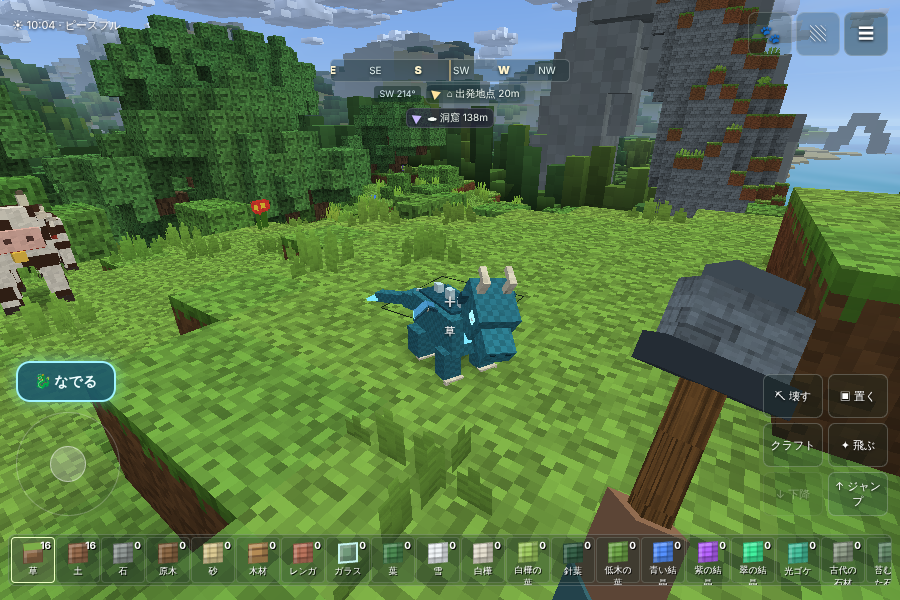
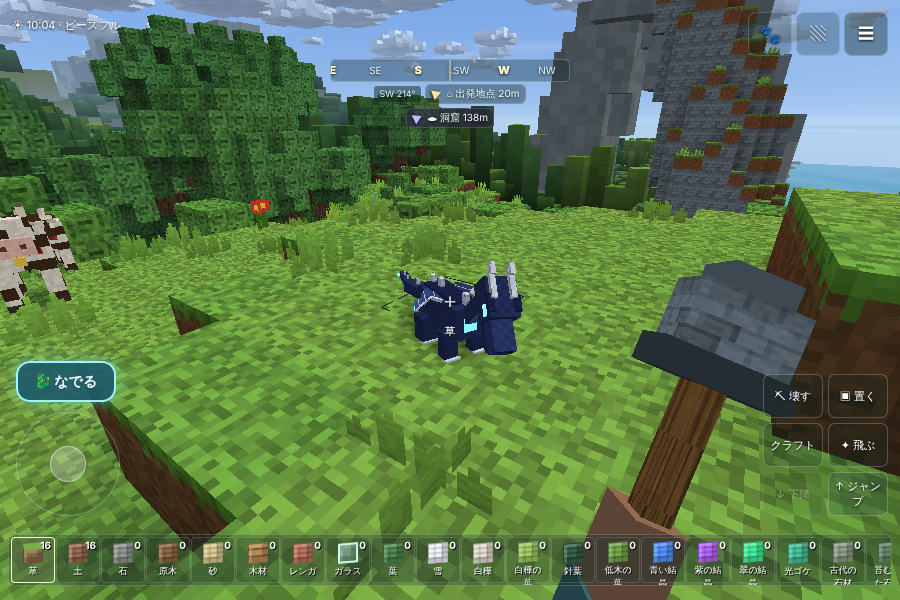
v18: ドラゴンの姿を「月影の竜」に（細長い首と尾・骨の通った大きな翼・背中のトゲ・藍色×白銀×水色の光）
エンダードラゴン風のシルエットを参考にしつつ、色・頭・光り方は独自デザイン。スクリーンショット更新。

Claude-Session: https://claude.ai/code/session_01Tw9m5tYocoLMiPM6YDs14C

diff --git a/index.html b/index.html
@@ -2000,29 +2000,31 @@ const LIFE_SPECIES=[
  bones:[['body','root',0,0,0]],
  parts:[['body',0,0,0,10,10,10,'#6f98ea','glow'],['body',0,.4,0,10.3,2.2,10.3,'#8f7ae8','glow'],['body',-2.2,5.4,5.05,1.8,2.4,.25,'#1d1640','flat',1],['body',-2.6,6.6,5.2,.7,.7,.15,'#ffffff','flat',1],
   ['body',0,3.2,5.05,2,.7,.25,'#1d1640','flat'],['body',-2.4,10,-1,2,3.2,2,'#c58cff','glow'],['body',2.2,10,1.4,1.6,2.4,1.6,'#7fe8ff','glow'],['body',.4,10,-2.6,1.2,1.8,1.2,'#b7a4ff','glow']]},
-// v18 the dragon partner and its nest egg (cat 'pet': never spawned, never in the egg book, never culled; see the DRAGON section).
-// One model for every age: lifePose scales the head, neck, wings and tail per growth stage. 'shd' carries the contact shadow (hidden in flight).
+// v18 the dragon partner (月影の竜: indigo scales, silver bones, ice-blue glow) and its nest egg (cat 'pet': never spawned, never in the egg book,
+// never culled; see the DRAGON section). One model for every age: lifePose scales the head, neck, wings and tail per growth stage.
+// 'shd' carries the contact shadow (hidden in flight). A slender body, a long neck and tail, spines along the back and big bony wings.
 {id:'dragon',name:'ドラゴン',group:'ドラゴン',cat:'pet',move:'dragon',rig:'dragon',sc:1,sp:1.5,run:4.6,h:1.2,r:.5,flee:0,herd:[1,1],hab:{},voice:'kyu',stride:1.3,
- bones:[['shd','root',0,0,0],['body','root',0,10,0],['neck','body',0,15,8,.55],['head','neck',0,25,9],['jaw','head',0,24,12],['tail','body',0,13,-8,-.12],['tip','tail',0,12.5,-19.5],
-  ['wl','body',-5,17,3],['l1','wl',-19,17,3],['fl','body',-4,9,6],['bl','body',-4,9,-5]],
- parts:[['shd',0,.5,-3,22,.1,36,[11,18,-3/18],'shadow'],
-  ['body',0,8,0,10,9,18,'#2d7a8c','scale'],['body',0,7.4,0,8,1,15,'#a8e0cf','flat'],['body',0,16.6,-1,7,1,15,'#1f5568','scale'],
-  ['body',0,17.4,5,1.4,2.2,2,'#cfeff5','flat'],['body',0,17.4,0,1.4,2.6,2,'#cfeff5','flat'],['body',0,17.4,-5,1.4,2.2,2,'#cfeff5','flat'],['body',0,11,9.05,4,4,.4,'#7fe8ff','glow'],
-  ['neck',0,15,9,5.4,11,5.4,'#2d7a8c','scale'],['neck',0,16,11.75,3.4,9,.4,'#a8e0cf','flat'],['neck',0,24,6.7,1.2,1.8,1.6,'#cfeff5','flat'],
-  ['head',0,24,11,7,6,8,'#2d7a8c','scale'],['head',0,24.4,17,5,3.4,4.4,'#2f8396','scale'],['head',-1.3,26.9,19.25,.8,.6,.2,'#123844','flat',1],
-  ['head',-3.55,27,13,.3,1.5,1.9,'#aef9ff','glow',1],['head',-3.62,27.6,13.4,.2,.5,.6,'#ffffff','flat',1],
-  ['head',-2.2,30,9.5,1.2,3,1.2,'#ede4c8','bone',1],['head',-2.2,32,8,1,1,2.4,'#ede4c8','bone',1],['head',-3.9,26,9,1.6,2.4,1,'#1f5568','fur',1],
-  ['jaw',0,22.8,15.5,4.6,1.4,6,'#2a6f80','scale'],['jaw',0,22.6,15.5,4,.3,5,'#a8e0cf','flat'],
-  ['tail',0,10.5,-14,6,5,12,'#2d7a8c','scale'],['tail',0,15.4,-14,1.2,1.6,2,'#cfeff5','flat'],
-  ['tip',0,11,-26,3.8,3.2,13,'#2d7a8c','scale'],['tip',0,11.6,-33.5,6.4,.8,4,'#7fe8ff','glow'],
-  ['wl',-12,16.6,3,14,1.4,2.4,'#24566a','bone',1],['wl',-12,16.3,-2.8,14,.5,9,'#3f86b8','flat',1],
-  ['l1',-26,16.7,3,14,1.1,2,'#24566a','bone',1],['l1',-26,16.4,-3.5,14,.5,10,'#4a95c8','flat',1],['l1',-33.3,16.45,-3,.6,.5,9,'#8ff4ff','glow',1],['l1',-19,16.2,4.4,1,1.6,1,'#ede4c8','bone',1],
-  ['fl',-4.4,0,6.5,3.4,9.4,3.4,'#2a6f80','scale',1],['fl',-4.4,0,8.4,3.6,1.1,1.2,'#ede4c8','bone',1],
-  ['bl',-4.6,0,-5,4,9.6,4.6,'#2a6f80','scale',1],['bl',-4.6,0,-2.9,4.2,1.1,1.2,'#ede4c8','bone',1]]},
+ bones:[['shd','root',0,0,0],['body','root',0,10,0],['neck','body',0,14,8,.75],['head','neck',0,30,9],['jaw','head',0,29,12],['tail','body',0,12,-8,-.1],['tip','tail',0,12,-26],
+  ['wl','body',-4,16,3],['l1','wl',-22,16.5,3],['fl','body',-3.5,9,5],['bl','body',-3.5,9,-5]],
+ parts:[['shd',0,.5,-8,18,.1,52,[9,26,-8/26],'shadow'],
+  ['body',0,8,0,8,8,18,'#24305e','scale'],['body',0,7.4,0,6,1,14,'#4a5c94','flat'],['body',0,15.6,-1,5.4,1,15,'#1a2248','scale'],
+  ['body',0,16,7,1.2,2.6,1.6,'#d6dde8','bone'],['body',0,16,-4,1.2,2.8,1.6,'#d6dde8','bone'],['body',0,16,-8,1.2,2.4,1.6,'#d6dde8','bone'],['body',0,10,9.05,3.4,3.4,.4,'#8ff4ff','glow'],
+  ['neck',0,14,9,4,16,4,'#24305e','scale'],['neck',0,15,11.2,2.6,14,.4,'#4a5c94','flat'],['neck',0,20,6.6,1,1.8,1.4,'#d6dde8','bone'],['neck',0,25,6.6,1,1.8,1.4,'#d6dde8','bone'],
+  ['head',0,29,11,5.6,4.6,7,'#24305e','scale'],['head',0,29.2,17,4,2.8,5.6,'#2b386c','scale'],['head',-1,31.4,19.85,.7,.5,.2,'#0c1026','flat',1],
+  ['head',-2.85,31.6,13,.3,1.1,2,'#9ff7ff','glow',1],['head',-2.4,33.4,12.2,1.2,.6,3,'#1a2248','scale',1],
+  ['head',-1.8,33.4,9,1,1,5,'#d6dde8','bone',1],['head',-1.8,34.2,6.6,.9,.9,2,'#d6dde8','bone',1],
+  ['jaw',0,27.8,16,3.6,1.2,6.4,'#1f2a55','scale'],['jaw',0,27.6,16,3,.3,5,'#4a5c94','flat'],
+  ['tail',0,10,-17,5,4,18,'#24305e','scale'],['tail',0,14,-12,1,2,1.6,'#d6dde8','bone'],['tail',0,14,-19,1,1.8,1.6,'#d6dde8','bone'],
+  ['tip',0,10.6,-34,2.8,2.6,16,'#24305e','scale'],['tip',0,13.2,-30,.8,1.4,1.4,'#d6dde8','bone'],['tip',0,13,-37,.8,1.2,1.4,'#d6dde8','bone'],['tip',0,11.3,-43,4.6,.6,3,'#8ff4ff','glow'],
+  ['wl',-13,15.6,3,18,1.4,2,'#d6dde8','bone',1],['wl',-13,15.4,-4,18,.4,12,'#2e3b70','flat',1],['wl',-14,15.5,-4,1,.5,12,'#c4ccd8','bone',1],
+  ['l1',-31,16.1,3,18,1.1,1.6,'#d6dde8','bone',1],['l1',-26.5,15.9,-5,9,.4,14,'#34427a','flat',1],['l1',-35.5,15.9,-3,9,.4,10,'#3d4d8a','flat',1],['l1',-28,16,-5,.9,.5,14,'#c4ccd8','bone',1],['l1',-35,16,-3,.9,.5,10,'#c4ccd8','bone',1],
+  ['l1',-26,15.9,-13,3,.4,2,'#34427a','flat',1],['l1',-38.5,15.9,-9,3,.4,2,'#3d4d8a','flat',1],['l1',-40.2,15.95,-3,.5,.4,9,'#8ff4ff','glow',1],['l1',-22,15.6,4.2,.9,1.6,.9,'#d6dde8','bone',1],
+  ['fl',-3.8,0,5.5,2.8,9.4,2.8,'#1f2a55','scale',1],['fl',-3.8,0,7.2,3,1,1,'#d6dde8','bone',1],
+  ['bl',-4,0,-5,3.4,9.6,3.8,'#1f2a55','scale',1],['bl',-4,0,-3.2,3.6,1,1,'#d6dde8','bone',1]]},
 {id:'dragonNest',name:'ドラゴンの卵',group:'ドラゴン',cat:'pet',move:'still',rig:'egg',sc:1,sp:0,run:0,h:.8,r:.4,flee:0,herd:[1,1],hab:{},
  bones:[['nest','root',0,0,0],['egg','root',0,1,0],['crk','egg',0,5,0]],
  parts:[['nest',0,.4,0,7,1,7,'#b8954f','fur'],['nest',0,0,-4,10,2.2,2,'#7a5a34','fur'],['nest',0,0,4,10,2.2,2,'#6b4c2a','fur'],['nest',-4,0,0,2,2.2,6,'#7a5a34','fur',1],
-  ['egg',0,1,0,5,2,5,'#2f8f9a','dots'],['egg',0,3,0,6,3.4,6,'#2f8f9a','dots'],['egg',0,6.4,0,5,2.4,5,'#3aa2ad','dots'],['egg',0,8.8,0,3.4,1.4,3.4,'#45b3bd','dots'],
+  ['egg',0,1,0,5,2,5,'#2b386c','dots'],['egg',0,3,0,6,3.4,6,'#2b386c','dots'],['egg',0,6.4,0,5,2.4,5,'#34437e','dots'],['egg',0,8.8,0,3.4,1.4,3.4,'#3e4f8f','dots'],
   ['egg',-1.5,4.6,3.02,1.4,1,.2,'#7fe8ff','glow'],['egg',1.6,6.8,2.52,1,.8,.2,'#7fe8ff','glow'],['egg',-3.02,3.6,-1,.2,1.2,1.2,'#7fe8ff','glow'],
   ['crk',0,5.2,3.05,3.6,.4,.2,'#c8fbff','glow'],['crk',1.2,5.6,3.06,.4,1.6,.2,'#c8fbff','glow'],['crk',-3.05,4.4,0,.2,.4,3,'#c8fbff','glow'],['crk',3.05,6,.5,.2,1.4,.4,'#c8fbff','glow'],['crk',0,8.3,-1.5,.4,.4,2.6,'#c8fbff','glow']]}];
 const LIFE_BY_ID={};LIFE_SPECIES.forEach((s,i)=>{s.i=i;LIFE_BY_ID[s.id]=s});
@@ -3183,7 +3185,7 @@ function lifePose(c){c.poseVersion++;const sp=c.sp,B=sp.B,R=c.R,O=c.O,S=c.S,nb=s
   case'dragon':{const k=c.stageK??1,hs=1.45-.45*k,ns=.8+.2*k,ws=.5+.5*k;bSC('head',hs,hs,hs);bSC('neck',ns,ns,ns);bSC('tail',ns,ns,ns);bSC('wl',ws,ws,ws);bSC('wr',ws,ws,ws);
    if(c.air){bSC('shd',0,0,0);const f=Math.sin(t*(5.2+2.5*(1-k)))*.7*(c.flap??1),g=.08;bRZ('wl',-f-g);bRZ('wr',f+g);bRZ('l1',-f*.55);bRZ('r1',f*.55);
     bRX('fl',1);bRX('fr',1);bRX('bl',1.2);bRX('br',1.2);bOY('body',f*.8);bRX('neck',-.35-c.pitch*.4);bRX('head',.25+c.pitch*.3);
-    bRY('tail',Math.sin(t*1.7)*.14-c.roll*.3);bRY('tip',Math.sin(t*1.7-.8)*.22-c.roll*.3);bRX('tail',c.pitch*.35)}
+    bRY('tail',Math.sin(t*1.7)*.14-c.roll*.3);bRY('tip',Math.sin(t*1.7-.8)*.22-c.roll*.3);bRX('tail',.12+c.pitch*.35);bRX('tip',.05)}
    else{const a=s*gw*.55,st=c.sit||0,lg=.74+.06*k;bRX('fl',a);bRX('br',a);bRX('fr',-a);bRX('bl',-a);for(const n of ['fl','fr','bl','br'])bSC(n,1.25,lg,1.2);
     // Wings fold short along the back (span scaled in, a little raised); a flutter now and then, more when happy.
     const fl=(c.flutter||0)>0?Math.abs(Math.sin(t*16)):0;const sp2=.3+fl*.45;bSC('wl',sp2,1,.85);bSC('wr',sp2,1,.85);bRY('wl',-.4+fl*.3);bRY('wr',.4-fl*.3);bRZ('wl',-.35-fl*.6);bRZ('wr',.35+fl*.6);bRZ('l1',.5);bRZ('r1',-.5);
@@ -3759,7 +3761,7 @@ function nestTick(dt){const n=nest;if(!n)return;n.dormant=peek(Math.floor(n.x),1
 function hatch(){const n=nest;if(!n||dragon.stage!=='egg')return false;dropEnt(n);nest=null;
  Object.assign(dragon,{stage:'baby',growth:0,joy:60,x:n.x,y:n.y,z:n.z,yaw:Math.atan2(player.x-n.x,player.z-n.z)});if(!dragon.name)dragon.name=DRAGON_NAMES[Math.floor(rand(seed&1023,917)*DRAGON_NAMES.length)%DRAGON_NAMES.length];
  dragonSpawnEnts();pet.mode='happy';pet.timer=2.2;pet.flutter=2;
- const fx=qualityName==='low'||loadScale<1?2:4;for(let k=0;k<fx;k++)burst(n.x,n.y+.5,n.z,k%2?'#2f8f9a':'#c8fbff',8);sfx('hatch');lifeVoice(pet,'kyu');
+ const fx=qualityName==='low'||loadScale<1?2:4;for(let k=0;k<fx;k++)burst(n.x,n.y+.5,n.z,k%2?'#2b386c':'#c8fbff',8);sfx('hatch');lifeVoice(pet,'kyu');
  announce('🐉 ドラゴンが生まれた！',`名前は「${dragonName()}」。いっしょに冒険すると大きくなるよ`,'rare');dirty=true;refresh();queueSave();return true}
 // ---- Companion care: petting (the egg warms, the dragon is happy), apples, the name, follow / wait, calling it over.
 function petDragon(egg){if(petCD>0)return false;petCD=.7;dragon.pets++;dirty=true;
@@ -3819,7 +3821,7 @@ function petFly(c,dt,dx,dy,dz,dist){const land=!flying&&!riding&&dist<7&&dy<2,tx
 // ---- Riding. Stick forward / back = speed, left / right = turn (swiping looks and turns too); ↑ / ↓ climb and descend.
 // On the ground the dragon walks and steps up one block; ↑ takes off. Bumping into a hill lifts it over; it hovers above water,
 // and 降りる in the air lands first (never over water).
-function seatY(c){return 17.6/16*c.size}
+function seatY(c){return 16.6/16*c.size}
 function mount(){if(!pet||dragon.stage!=='adult'||riding||dead||paused)return false;if(Math.hypot(pet.x-player.x,pet.z-player.z)>6)return false;
  flying=false;riding=true;dragon.riding=true;rideV=0;rideVy=0;rideLand=false;camD=4;yaw=pet.yaw;pitch=-.22;pet.sit=0;pet.mode='ride';dig=null;
  document.body.classList.add('riding');player.x=pet.x;player.z=pet.z;player.y=pet.y+seatY(pet);lifeVoice(pet,'kyu');dirty=true;refresh();
@@ -3875,7 +3877,7 @@ function drawRider(a){const c=pet,cy=Math.cos(c.yaw),sy=Math.sin(c.yaw),cx=Math.
 function dragonBreath(dt){if(gameMode!=='survival'||dragon.stage!=='adult'||!pet||pet.dormant)return;if((breathCD-=dt)>0)return;breathCD=.5;
  let best=null,bd=9;for(const m of life){if(!m.sp.hostile||m.dormant||m.vanish>=0||m.sp.id==='guardian'||!(m.aggro>0))continue;const d=Math.hypot(m.x-pet.x,m.z-pet.z);
   if(d<bd&&Math.abs(m.y-pet.y)<5&&Math.hypot(m.x-player.x,m.z-player.z)<14){bd=d;best=m}}
- const s=pet.size/16,mx=pet.x+Math.sin(pet.yaw)*19*s,my=pet.y+25*s,mz=pet.z+Math.cos(pet.yaw)*19*s;if(!best||!canSee(best,mx,my,mz))return;
+ const s=pet.size/16,mx=pet.x+Math.sin(pet.yaw)*21*s,my=pet.y+28*s,mz=pet.z+Math.cos(pet.yaw)*21*s;if(!best||!canSee(best,mx,my,mz))return;
  breathCD=7;pet.want=Math.atan2(best.x-pet.x,best.z-pet.z);if(!riding)pet.yaw=pet.want;pet.talk=.6;
  const n=qualityName==='low'||loadScale<1?5:9,tx=best.x,ty=best.y+best.sp.top*best.size*.5,tz=best.z;
  for(let i=0;i<n;i++){const k=i/n;particles.push({x:mx+(tx-mx)*k,y:my+(ty-my)*k,z:mz+(tz-mz)*k,vx:(Math.random()-.5)*.8,vy:.6,vz:(Math.random()-.5)*.8,life:.45+k*.3,color:i%2?'#bff8ff':'#7fe8ff'})}
